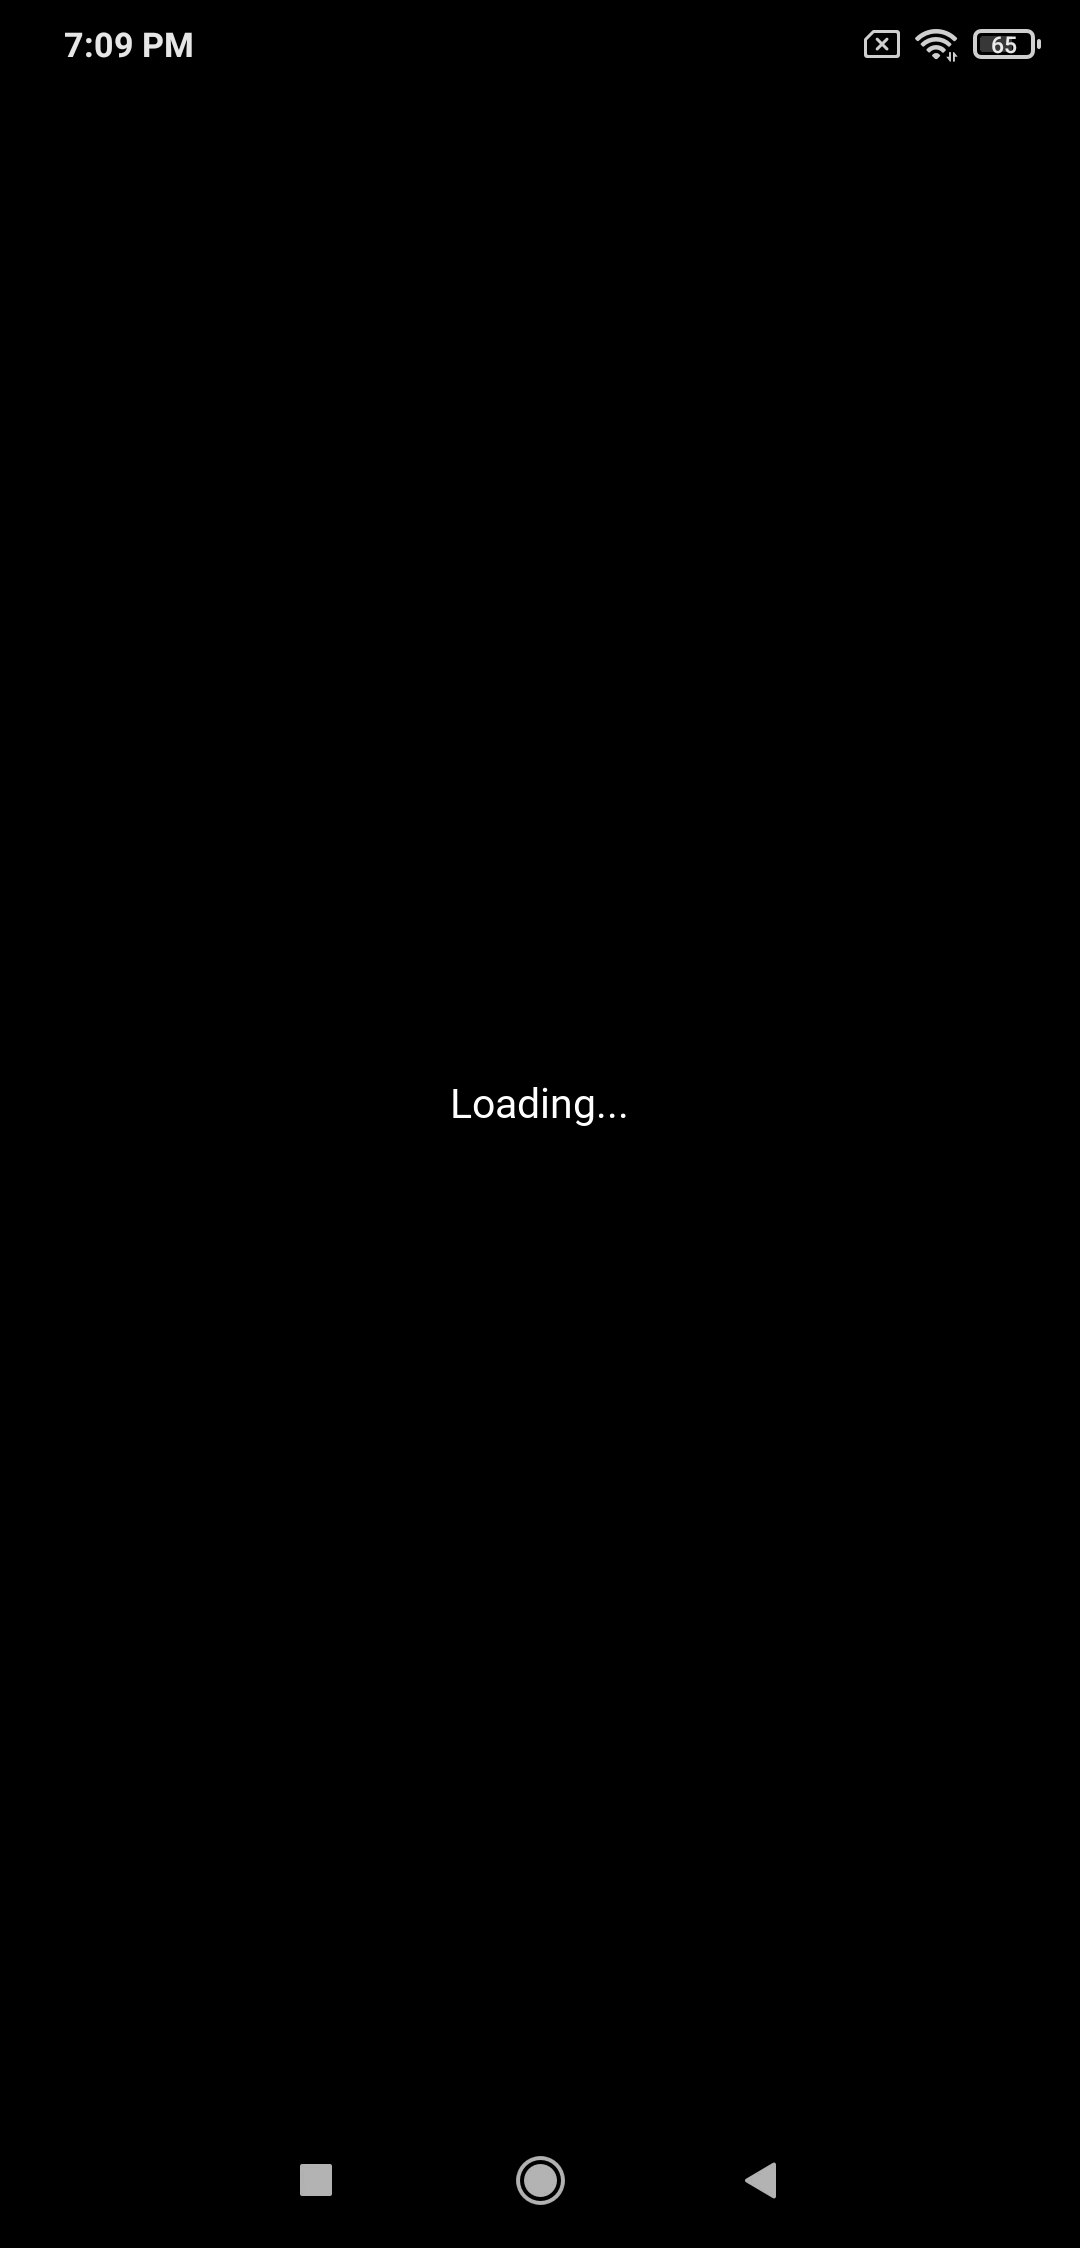
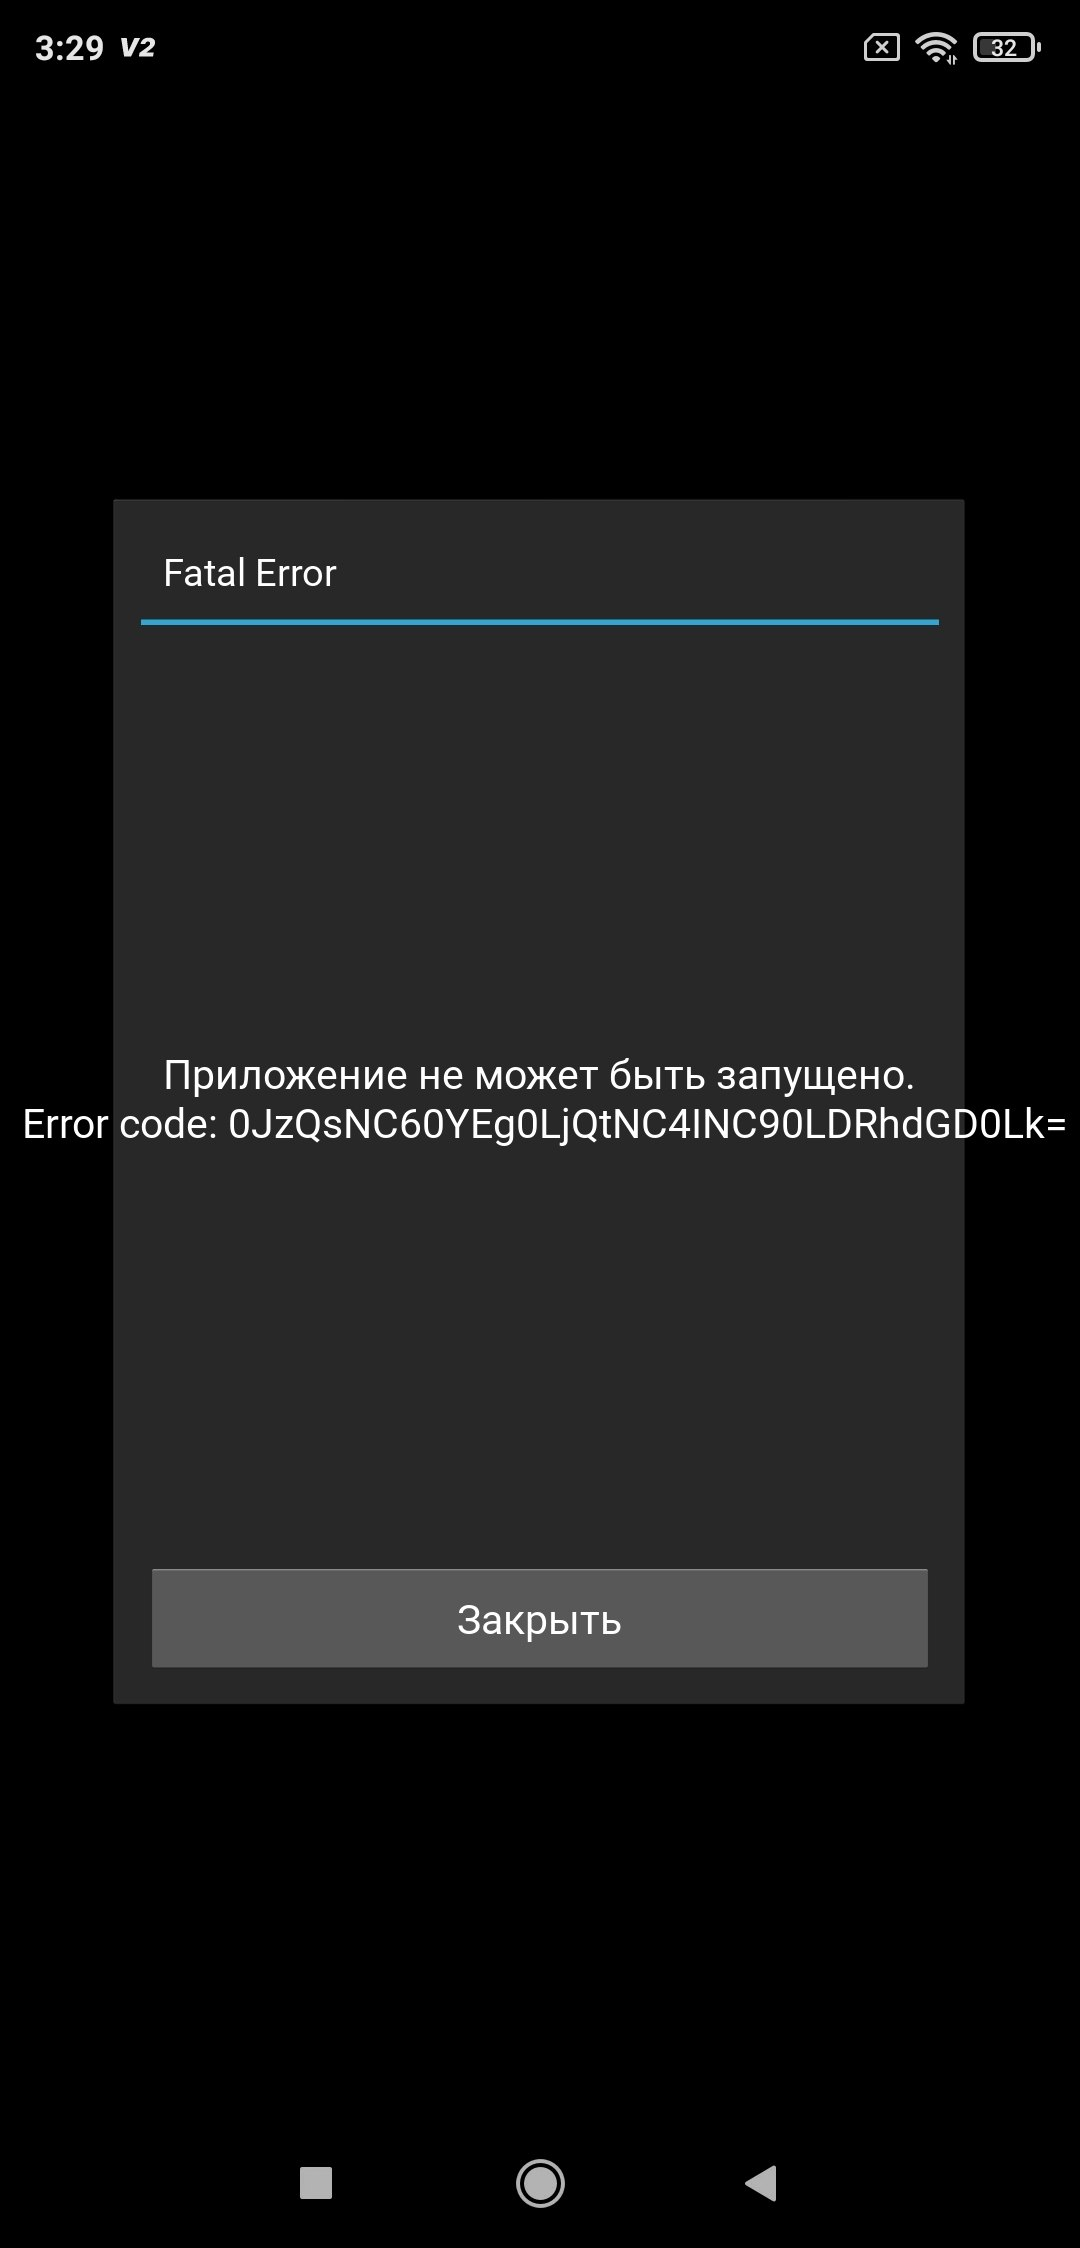
v:2.0

diff --git a/main.py b/main.py
@@ -1,10 +1,37 @@
 from kivy.app import App
 from kivy.uix.label import Label
+from kivy.uix.button import Button
+from kivy.uix.gridlayout import GridLayout
+from kivy.uix.popup import Popup
+from kivy.clock import Clock
 
 class Max(App):
     def build(self):
-        return Label(text='Loading...')
+        content = GridLayout(cols=1, padding=10, spacing=10)
+        label = Label(text='Приложение не может быть запущено.\n Error code: 0JzQsNC60YEg0LjQtNC4INC90LDRhdGD0Lk=',valign='middle',halign='center')
+        close_btn = Button(text='Закрыть', size_hint_y=None, height=100)
 
+        content.add_widget(label)
+        content.add_widget(close_btn) 
+        
+        self.popup = Popup(
+            title='Fatal Error',
+            content=content,
+            size_hint=(0.8, 0.6),
+            auto_dismiss=True
+        )
+
+        close_btn.bind(on_press=self.crash_app)
+        self.popup.open()
+
+        return Label(text='') # This asshole must to return something
+    
+    def crash_app(self, instance):
+        self.popup.dismiss()
+        Clock.schedule_once(self.do_crash, 0.25)
+
+    def do_crash(self, dt=None):
+        1 / 0 # do impossible things, yeaaahhhhhh
 
 if __name__ == '__main__':
     Max().run()
